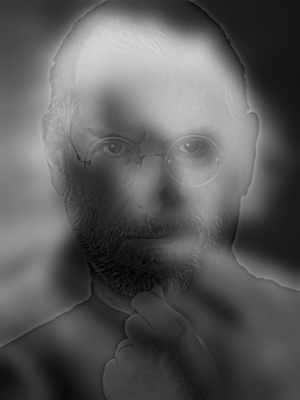
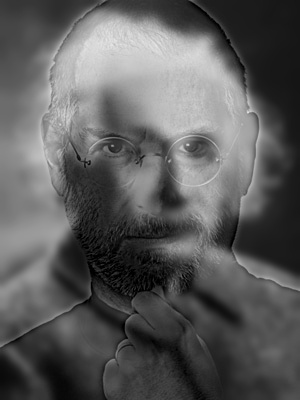
as

diff --git a/lapblending.py b/lapblending.py
@@ -7,7 +7,7 @@ import cv2
 import numpy as np
 from copy import deepcopy
 
-def pyr_build(orig, depth):
+def pyr_build(orig, depth, show=False):
     """ This function takes in an image and the desired depth to create
     a laplacian pyramid represented in the form of a list"""
     img = deepcopy(orig)
@@ -23,12 +23,15 @@ def pyr_build(orig, depth):
         float_G = resized_G.astype(np.float32)
         l = G[i].astype(np.float32) - float_G
         lp.append(l)
+        if show:
+            cv2.imshow('window',0.5 + 0.5*(l / np.abs(l).max() ))
+            while cv2.waitKey() < 0 : pass
 
     lp.append( G[depth-1].astype(np.float32) )
 
     return lp
 
-def pyr_reconstruct(lp_orig):
+def pyr_reconstruct(lp_orig, show=False):
     """This function takes in a list representing the laplacian pyramid
     of an image and then return the image reconstructed from this pyramid"""
     lp = deepcopy(lp_orig)     # First make a deepcopy of the laplacian pyr
@@ -39,10 +42,9 @@ def pyr_reconstruct(lp_orig):
         R = cv2.pyrUp(R,dstsize=shape)
         R = R.astype(np.float32)
         R += lp.pop()
-        '''
-        cv2.imshow('window',0.5 + 0.5*(R / np.abs(R).max() ))
-        while cv2.waitKey() < 0 : pass
-        '''
+        if show:
+            cv2.imshow('window',0.5 + 0.5*(R / np.abs(R).max() ))
+            while cv2.waitKey() < 0 : pass
 
     # Convert the image into integer format
     R = np.clip(R, 0, 255)
@@ -142,3 +144,17 @@ while cv2.waitKey() < 0 : pass
 l_blend = lap_blend(lp1, lp2, alpha)
 cv2.imshow('window', l_blend)
 while cv2.waitKey() < 0 : pass
+
+"""
+# Build a pyramid for hybrid 
+img3 = cv2.imread('hybrid_result.jpg')
+lp = pyr_build(img3, 6, show=True)
+counter = 0
+for l in lp:
+    filename = 'pyramid' + str(counter) + '.jpg'
+    l = l * 255 / l.max()
+    l = np.clip(l, 0, 255)
+    l = np.uint8(l) 
+    cv2.imwrite(filename,l)
+    counter += 1
+"""

diff --git a/hybridimg.py b/hybridimg.py
@@ -23,8 +23,8 @@ B = cv2.imread('jobs.jpg', 0)
 
 # Parameters
 Ka = 0.9 
-Kb = 0.2
-sigmaA = 8
+Kb = 0.4
+sigmaA = 4
 sigmaB = 3
 
 # Compute the hybrid image
@@ -49,4 +49,4 @@ cv2.imshow('window', hybrid_img)
 while cv2.waitKey() < 0: pass
 
 # Save the image
-# cv2.imwrite('Albert_Jobs.jpg', hybrid_img)
+cv2.imwrite('hybrid_result.jpg', hybrid_img)
